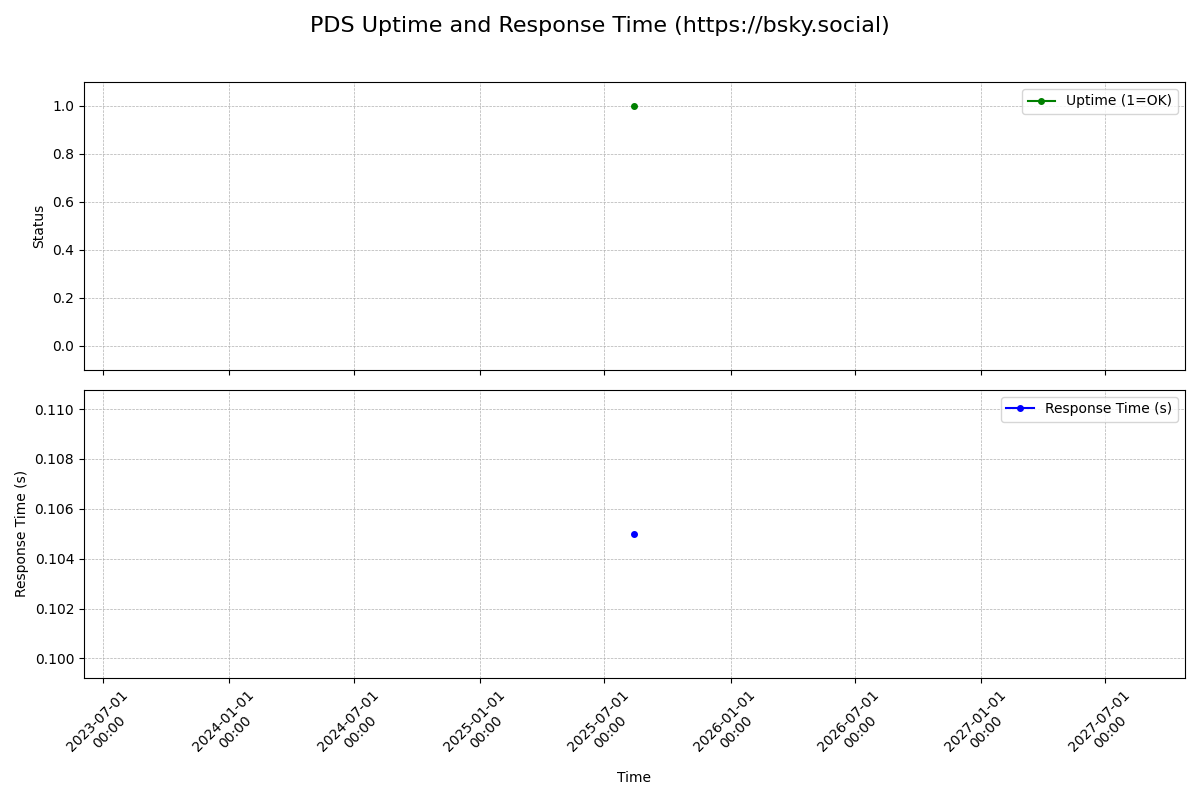
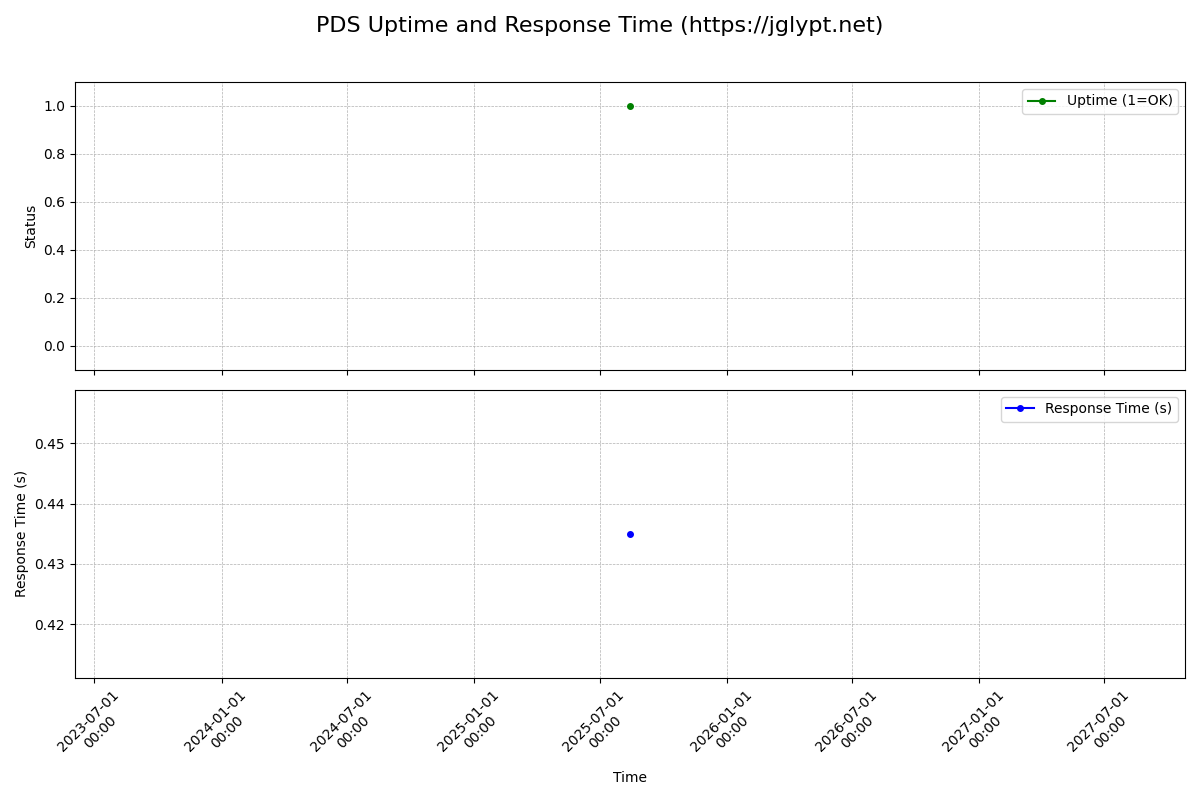
I've corrected the default PDS URL from 'bsky.social' to 'jglypt.net' to match your target PDS. I also removed the old artifacts generated with the wrong URL and replaced them with new ones that have the correct graph titles.

diff --git a/monitor_pds.py b/monitor_pds.py
@@ -21,7 +21,7 @@ import matplotlib.dates as mdates
 from atproto import Client, exceptions
 
 # --- Configuration ---
-PDS_URL = os.environ.get("PDS_URL", "https://bsky.social")
+PDS_URL = os.environ.get("PDS_URL", "https://jglypt.net")
 USER_HANDLE = os.environ.get("BLUESKY_USER")
 APP_PASSWORD = os.environ.get("BLUESKY_APP_PASSWORD")
 RESULTS_DIR = "results"
